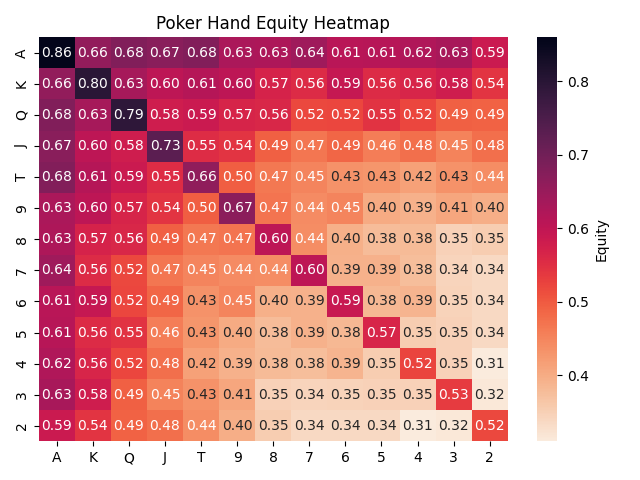
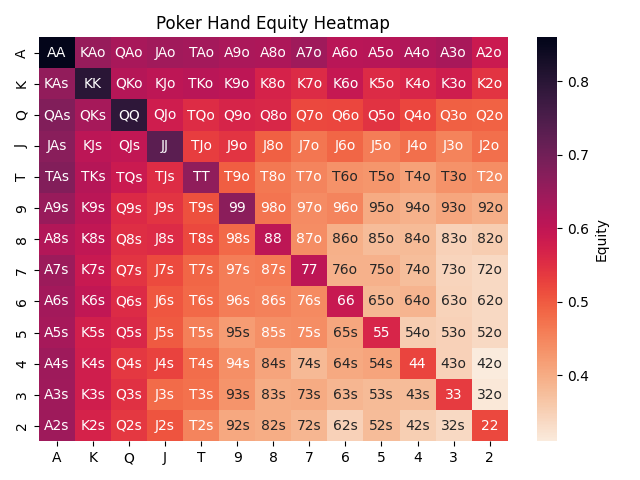
Fixed heatmap now shows offsuit and suited pairs correctly. Fixed issue before where it was only showing offsuit hands symmetrical across the diagonal pairs

diff --git a/report.py b/report.py
@@ -35,6 +35,8 @@ def plot_heatmap():
         ranks = ['A','K','Q','J','T','9','8','7','6','5','4','3','2']
         mat = pd.DataFrame(index=ranks, columns=ranks, data=float('nan'))
 
+        labels_mat = pd.DataFrame(index=ranks, columns=ranks, data='')
+
         equity_map = {row['Hand']: row['Equity'] for _, row in df.iterrows()}
 
         for i, r in enumerate(ranks):
@@ -46,15 +48,16 @@ def plot_heatmap():
 
                 if label in equity_map:
                     mat.at[r, c] = equity_map[label]
+                    labels_mat.at[r, c] = label
                 else:
-                    rev = c + r + ('s' if j > i else 'o') if r != c else label
+                    rev = c + r + label[-1] if r != c else label
                     mat.at[r, c] = equity_map.get(rev, float('nan'))
+                    labels_mat.at[r, c] = rev
+        return mat, labels_mat
 
-        return mat
+    pivot_table, labels_table = prepare_matrix_from_csv('equity_grid.csv')
 
-    pivot_table = prepare_matrix_from_csv('equity_grid.csv')
-
-    sns.heatmap(pivot_table, annot=True, fmt=".2f", cmap="rocket_r", cbar_kws={'label': 'Equity'})
+    sns.heatmap(pivot_table, annot=labels_table, fmt="", cmap="rocket_r", cbar_kws={'label': 'Equity'})
     plt.title('Poker Hand Equity Heatmap')
     plt.tight_layout()
     plt.show()
